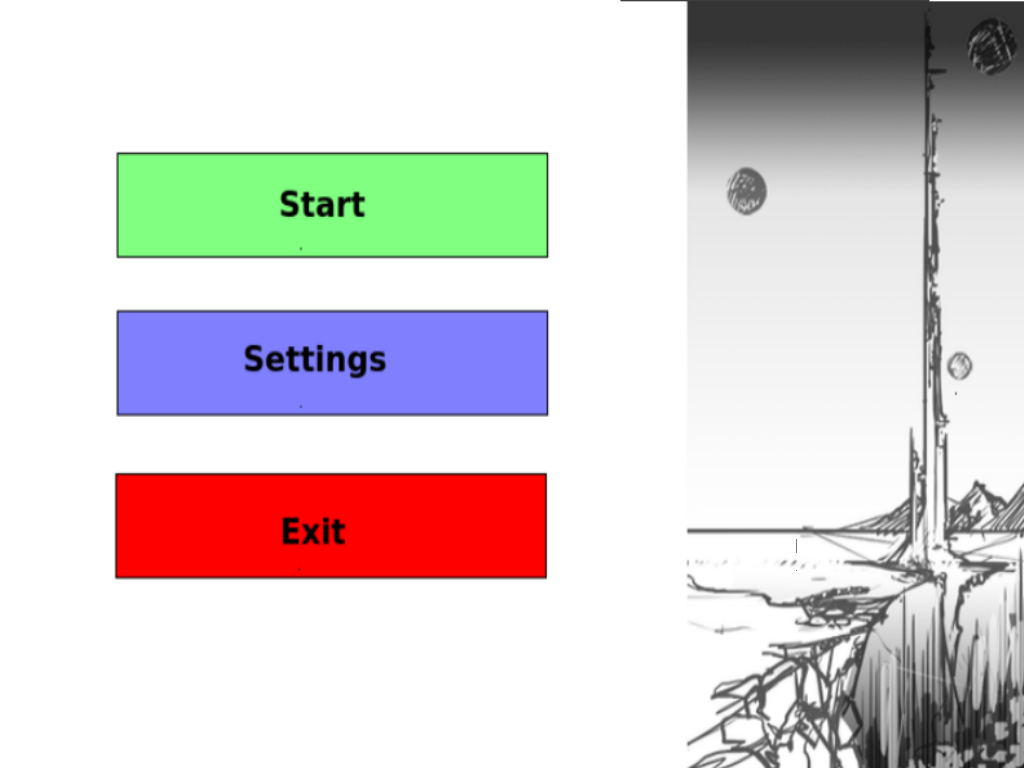
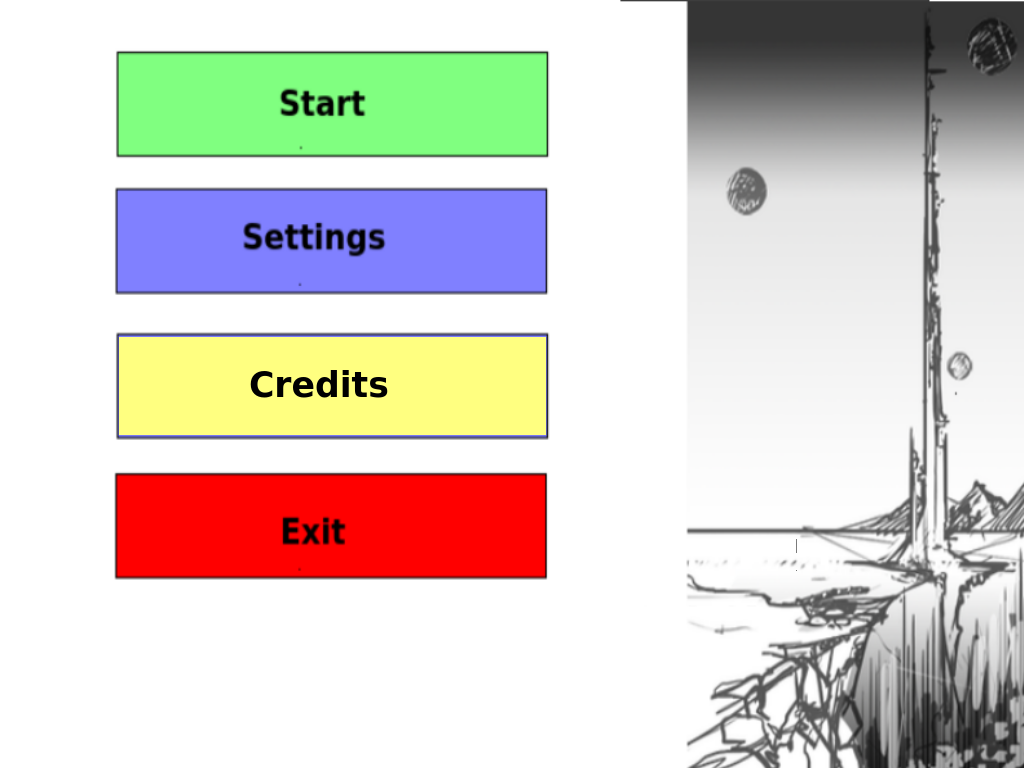
create credits button

Changed region(s): [[0.0938, 0.0625, 0.5625, 0.5938]]

diff --git a/game/include/menu.h b/game/include/menu.h
@@ -4,9 +4,11 @@
 #include "level.h"
 
 #define X_START 119
-#define Y_START 154
+#define Y_START 54
 #define X_SETTINGS 119
-#define Y_SETTINGS 313
+#define Y_SETTINGS 190
+#define X_CREDITS 119
+#define Y_CREDITS 335
 #define X_EXIT 119
 #define Y_EXIT 475
 #define W_BUTTON 428
@@ -26,7 +28,9 @@ private:
     int m_x_start = X_START;
     int m_y_start = Y_START;
     int m_x_settings = X_SETTINGS;
-    int m_y_settings = X_SETTINGS;
+    int m_y_settings = Y_SETTINGS;
+    int m_x_credits = X_CREDITS;
+    int m_y_credits = Y_CREDITS;
     int m_x_exit = X_EXIT;
     int m_y_exit = Y_EXIT;
     int m_w_button = W_BUTTON;

diff --git a/game/src/settings.cpp b/game/src/settings.cpp
@@ -11,7 +11,7 @@ Settings::Settings(const string& next, const string& image)
     shared_ptr<Resource> r = env->resources_manager->get(Resource::IMAGE, image);
     m_image = dynamic_cast<Image *>(r.get());
 
-    r = env->resources_manager->get(Resource::IMAGE, 
+    r = env->resources_manager->get(Resource::IMAGE,
         "res/images/resolutions.png");
     m_resolution = dynamic_cast<Image *>(r.get());
 }

diff --git a/game/src/menu.cpp b/game/src/menu.cpp
@@ -27,6 +27,8 @@ Menu::update_coordinates_buttons()
     m_y_start = scale * Y_START;
     m_x_settings = scale * X_SETTINGS;
     m_y_settings = scale * Y_SETTINGS;
+    m_x_credits = scale * X_CREDITS;
+    m_y_credits = scale * Y_CREDITS;
     m_x_exit = scale * X_EXIT;
     m_y_exit = scale * Y_EXIT;
     m_w_button = scale * W_BUTTON;
